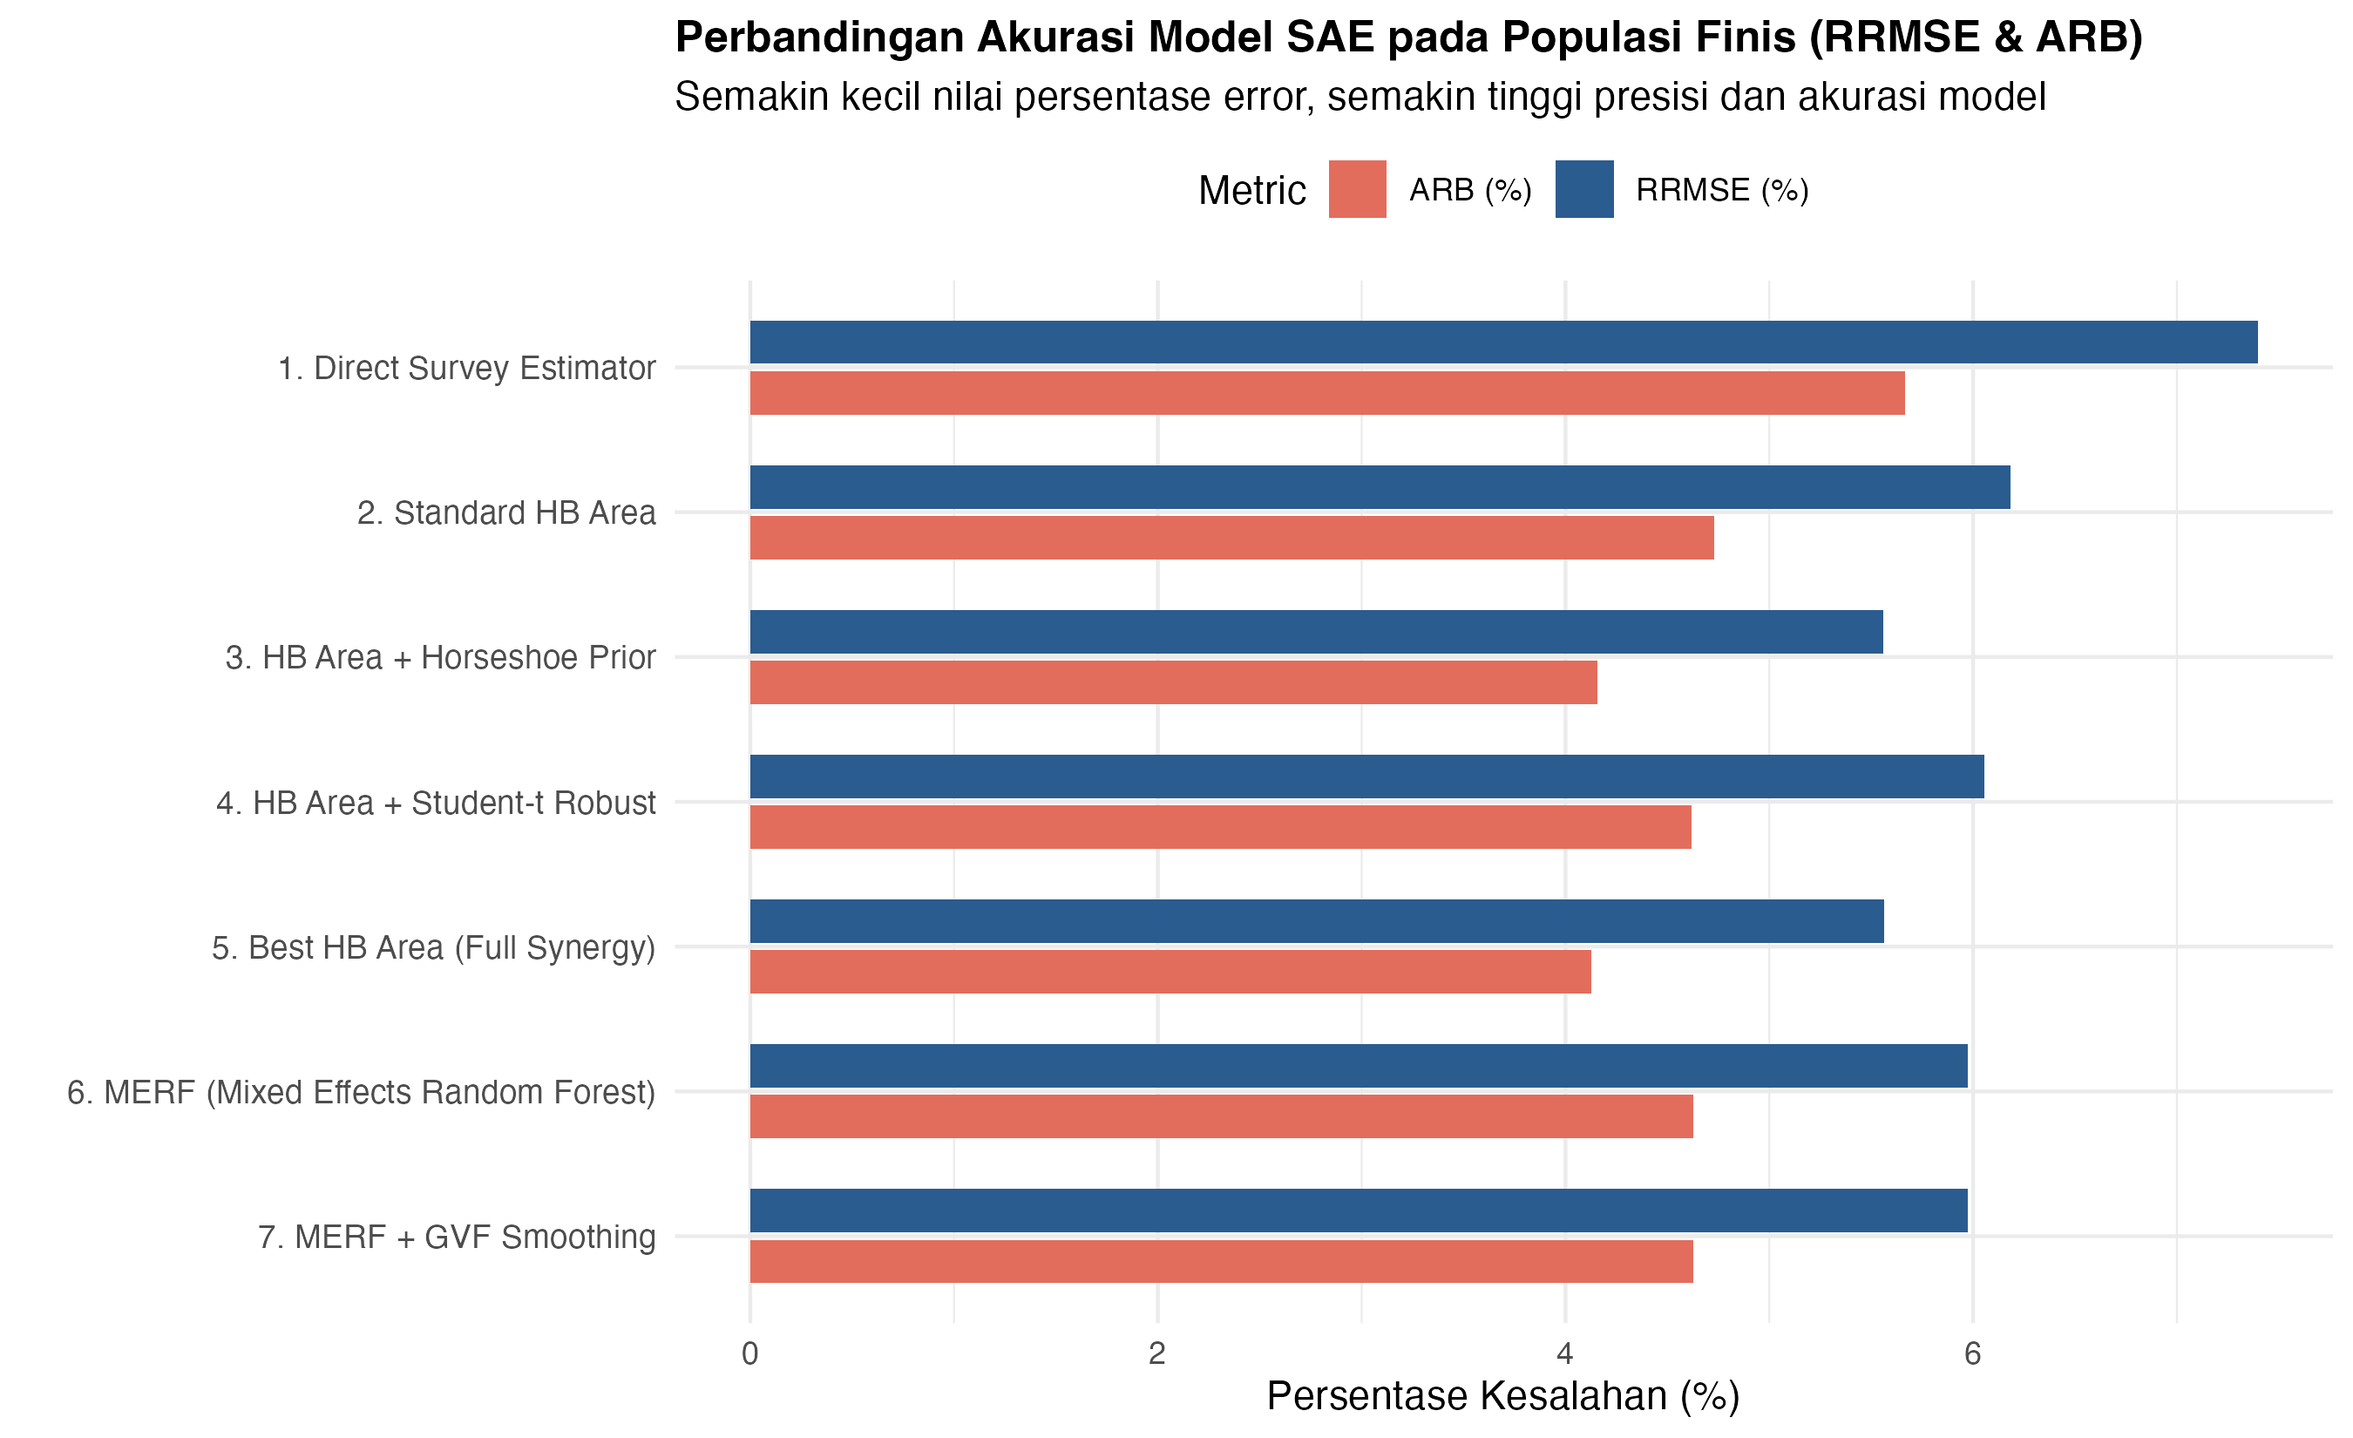
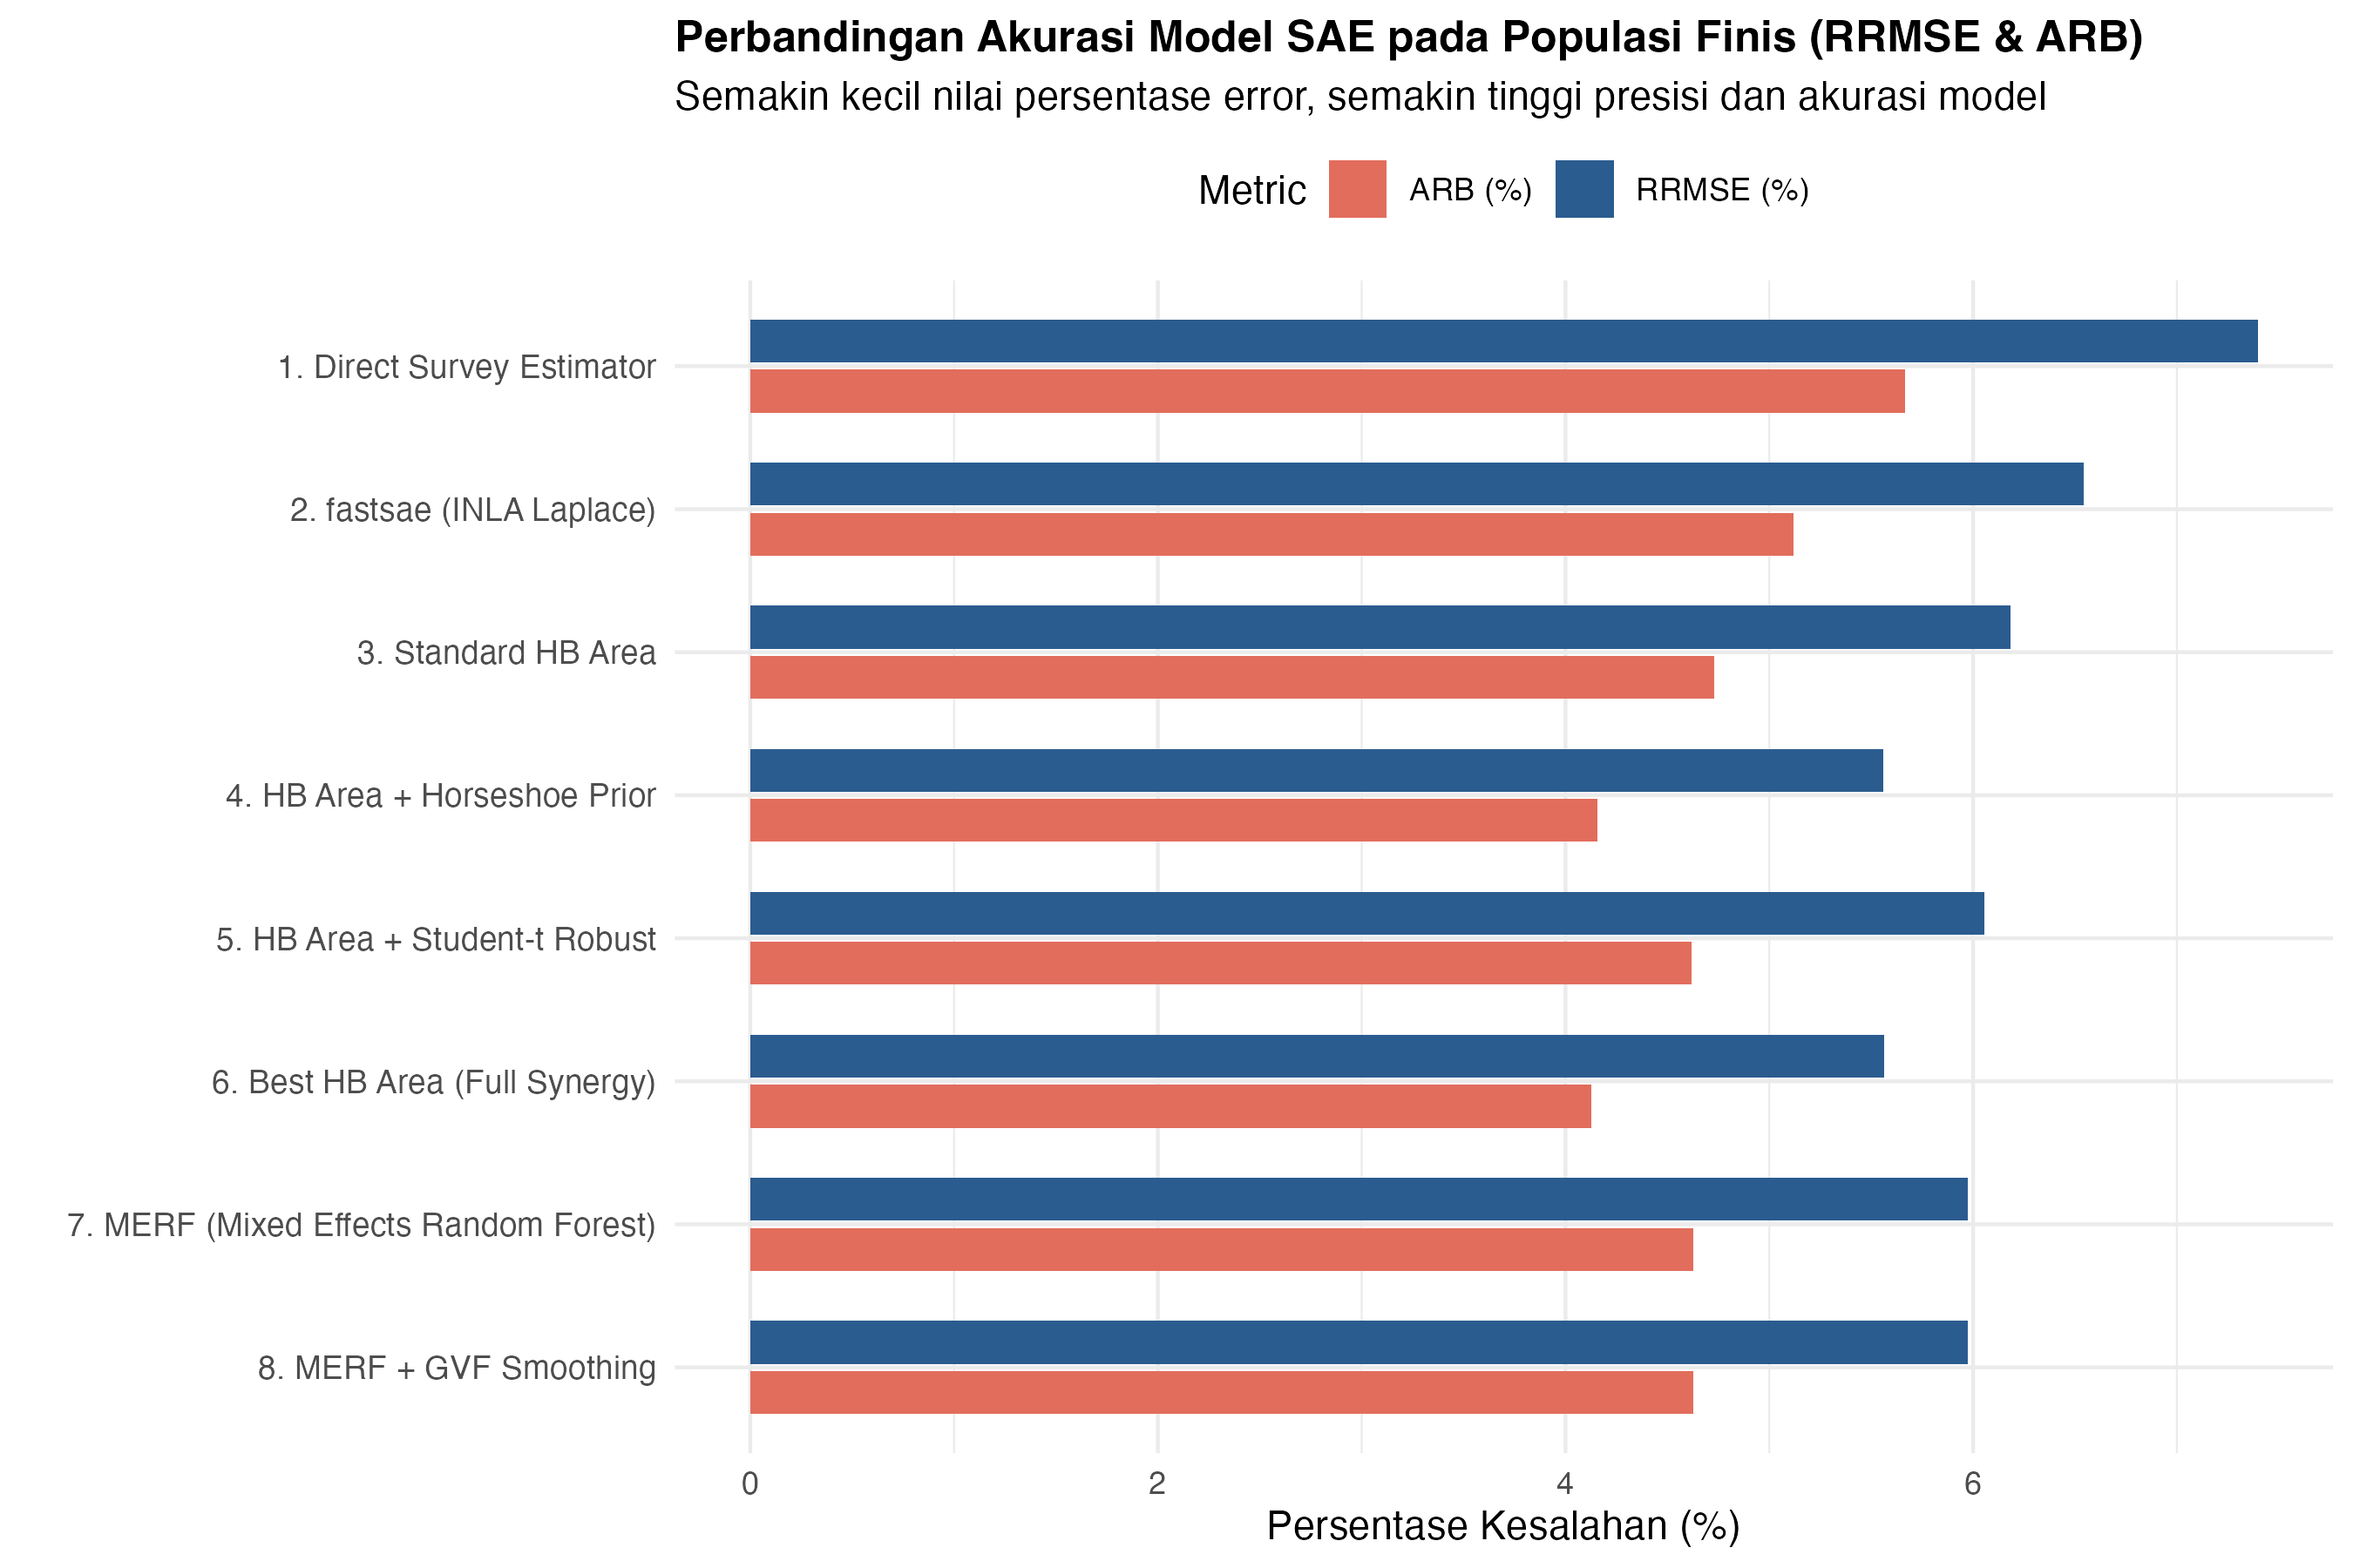
feat(benchmarks): include fastsae INLA model in finite population simulation comparison

diff --git a/README.md b/README.md
@@ -146,10 +146,11 @@ Pengujian empiris dilakukan pada populasi finis tergenerasi ($N \approx 125.000$
 | Model SAE | ARB (%) | RRMSE (%) | Relative Efficiency (RE) | RRMSE Outliers | Waktu Komputasi |
 | :--- | :---: | :---: | :---: | :---: | :---: |
 | **Direct Survey Estimator** | 5.67% | 7.40% | 1.00x *(Baseline)* | 5.66% | Instant |
-| **Standard HB Area** | 4.73% | 6.18% | 1.55x | 13.23% | 15.41s |
-| **HB Area + Horseshoe** | 4.16% | 5.56% | 1.91x | 12.33% | 8.10s |
-| **Best HB Area (Synergy)** | **4.13%** | **5.57%** | **1.94x (Terbaik!)** | 13.61% | 7.70s |
-| **MERF (Machine Learning)** | 4.63% | 5.97% | **1.64x** | **12.07% (Terbaik!)** | **1.71s (Tercepat!)** |
+| **fastsae (INLA Laplace)** | 5.12% | 6.54% | 1.38x | 12.74% | 1.78s |
+| **Standard HB Area (GPU)** | 4.73% | 6.18% | 1.55x | 13.23% | 13.79s |
+| **HB Area + Horseshoe** | 4.16% | 5.56% | 1.91x | 12.33% | 7.25s |
+| **Best HB Area (Synergy)** | **4.13%** | **5.57%** | **1.94x (Terbaik!)** | 13.61% | 6.99s |
+| **MERF (Machine Learning)** | 4.63% | 5.97% | **1.64x** | **12.07% (Terbaik!)** | **1.58s (Tercepat!)** |
 
 > *Skrip dan visualisasi replikasi lengkap tersedia di folder [`benchmarks/`](benchmarks/).*
 
